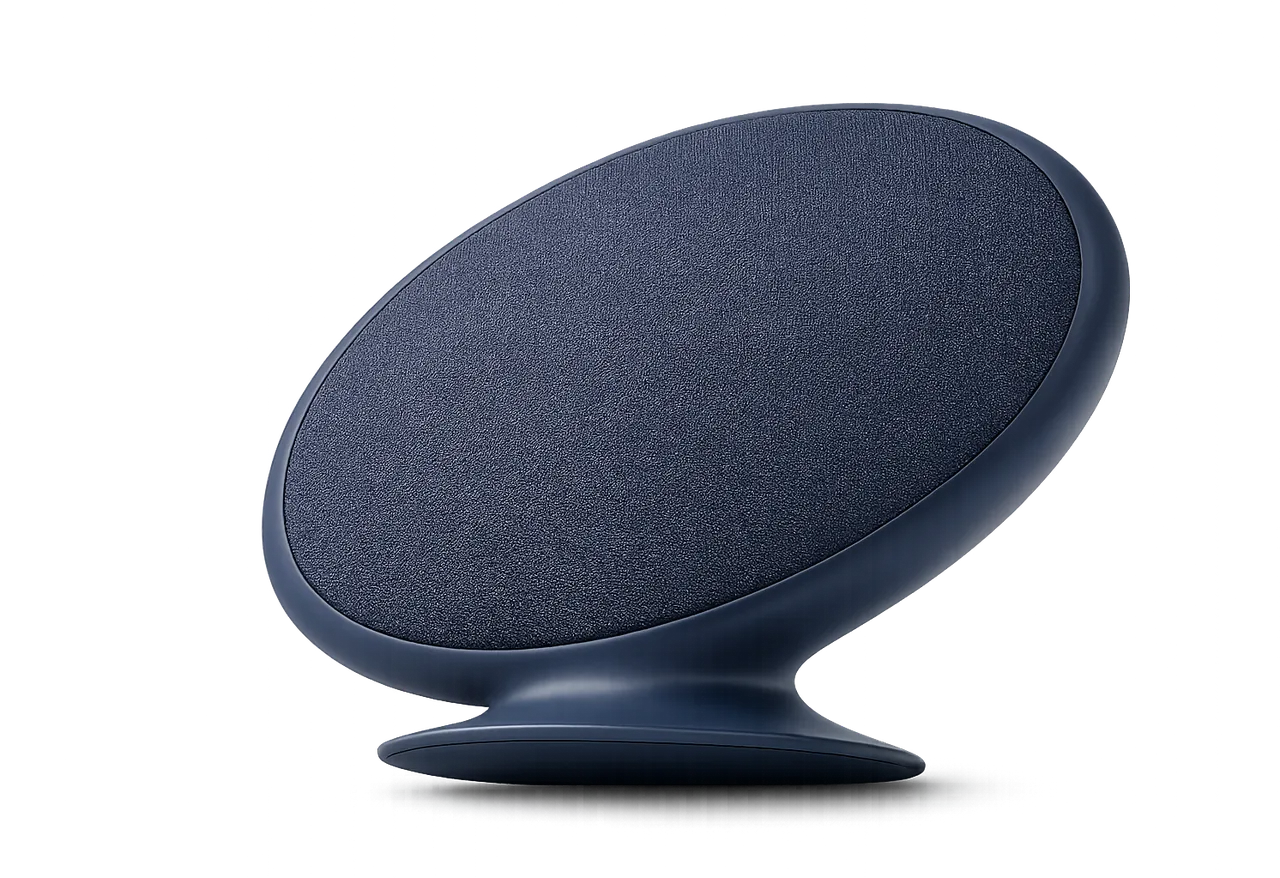
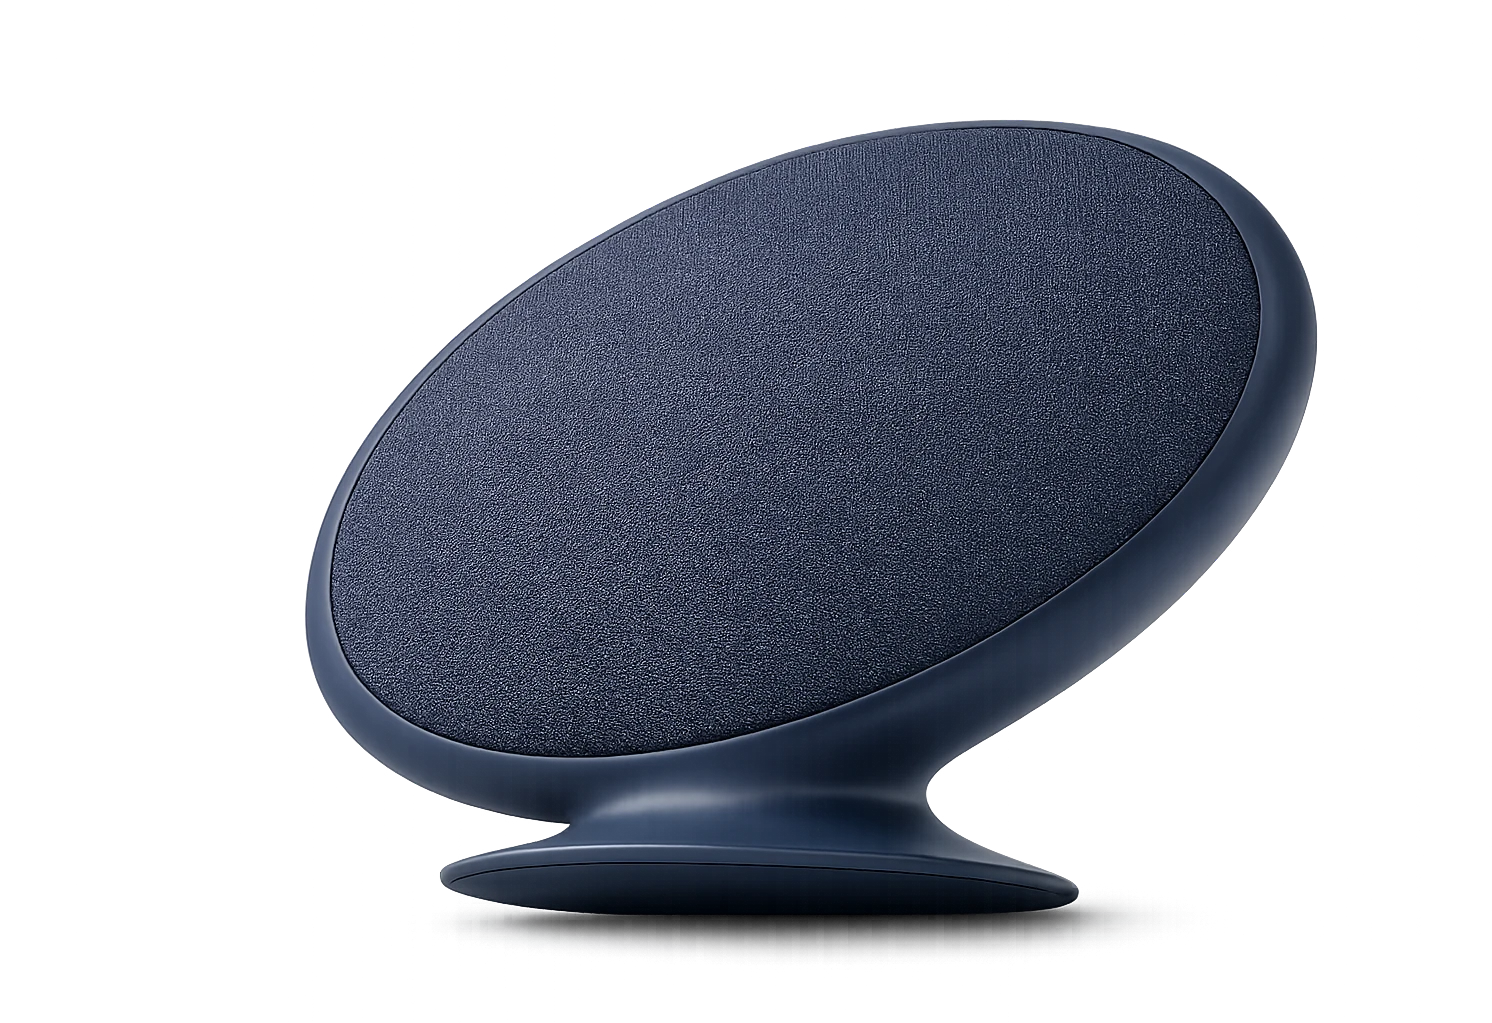
refactor: export hero at 1x and 2x instead of downscaling
The previous export shrank the master to 1280px purely to fit the brief's
300 KB hero budget, which cost resolution on Retina screens for a number
that only ever mattered on standard ones. Export both widths from the full
1492px master at quality 90 instead and let srcset pick: 900px/142 KB for
1x, 1492px/404 KB for 2x.

Move the source render to assets-src/ and ignore that directory rather than
the bare filename. Update the brief's hero references, including the
performance floor, which now scopes the 300 KB budget to the asset 1x
displays actually fetch.

Changed region(s): [[0.25, 0.2768, 0.5938, 0.7073], [0.4688, 0.3075, 0.5, 0.3383]]

diff --git a/fable-prompt.md b/fable-prompt.md
@@ -11,11 +11,11 @@ Nothing here is a real product. Do not write spec-sheet marketing copy about aud
 Read these first. They determine the whole architecture.
 
 - **No 3D. No Three.js, no WebGL, no React Three Fiber.** The product is presented entirely through pre-rendered transparent PNG/WebP images. Do not add a 3D library for any reason.
-- **Exactly one real render exists right now:** `/public/herospeaker.webp`, used on the landing page. It is a transparent-background studio shot of the speaker facing right with the pedestal sweeping left. It **must** keep its alpha channel — it sits on a navy field, so any format without transparency (JPEG) would render as a white box. If you find it with a `.jpg` extension, stop and say so rather than building around it.
+- **Exactly one real render exists right now**, exported at two widths from a single master: `/public/herospeaker.webp` (1492×1023, the 2x/Retina asset) and `/public/herospeaker@1x.webp` (900×617, the 1x asset). Serve them through a `srcset` so standard displays fetch the 1x file and Retina displays fetch the full-width one. Both are used on the landing page. The render is a transparent-background studio shot of the speaker facing right with the pedestal sweeping left. Both files **must** keep their alpha channel — it sits on a navy field, so any format without transparency (JPEG) would render as a white box. If you find it with a `.jpg` extension, stop and say so rather than building around it.
 - **All eighteen other finishes are placeholders for now.** They will be dropped in later at `/public/colorways/<collection>-<finish>.webp` (e.g. `flores-sunshine.webp`). Until then the site must look finished and intentional — see "The placeholder" below. Do not special-case the navy image: route it through the same component as everything else, so the others become real by adding files and changing no code.
 - Everything else visual is SVG or CSS. Do not reference external image URLs, and never leave a broken-image icon anywhere.
 - **Stack:** Vite + React + TypeScript. GSAP with ScrollTrigger for scroll choreography. Lenis for smooth scroll. Tailwind for layout. React Router for pages. Nothing else.
-- **Performance floor:** 60fps on any laptop. Animate only `transform` and `opacity`. Serve WebP, lazy-load below the fold, and keep the hero image under 300 KB.
+- **Performance floor:** 60fps on any laptop. Animate only `transform` and `opacity`. Serve WebP, lazy-load below the fold, and keep the hero image standard displays actually fetch under 300 KB — the 1x asset is 142 KB; the full-width Retina asset is 404 KB and is only ever requested by 2x screens. Do not downscale the master to chase a byte target; add a `srcset` step instead.
 - **Accessibility floor:** visible keyboard focus everywhere, `prefers-reduced-motion` honored (motion becomes instant state changes, never disappears), all interactive elements reachable by tab, alt text or aria-labels on every meaningful visual.
 
 ---
@@ -78,7 +78,7 @@ This is the most important thing on the site. Build it precisely.
 
 **Phase 4 — Invitation.** A scroll indicator appears on the navy field. Arrow bounces slowly and smoothly, long easing, nothing jittery. It fades out the moment the user begins scrolling.
 
-**Phase 5 — Scroll-driven hero.** Scrubbed to scroll position, reversible in both directions. Use `<ProductShot colorway="foundations-navy" src="/herospeaker.webp" />` — the one real render — positioned and driven purely by CSS transforms — translate, scale, rotate — with GSAP scrubbing them against scroll.
+**Phase 5 — Scroll-driven hero.** Scrubbed to scroll position, reversible in both directions. Use `<ProductShot colorway="foundations-navy" src="/herospeaker@1x.webp" srcSet="/herospeaker@1x.webp 900w, /herospeaker.webp 1492w" />` — the one real render — positioned and driven purely by CSS transforms — translate, scale, rotate — with GSAP scrubbing them against scroll.
 - The Luma-One enters oversized from the bottom-right, cropped by the viewport edge, then scales down and settles to sit over the type.
 - `New-Age` / `Noise` set in Fraunces italic, mint on navy, two lines, large. The letterforms resolve from a distorted state into clean type as scroll advances — start with heavy horizontal displacement or a clip-path reveal that reads as the letters assembling. The storyboard shows them mid-resolve; match that feel.
 - Speaker and type share the scroll timeline but move at different rates.
@@ -93,7 +93,7 @@ This is the most important thing on the site. Build it precisely.
 
 Build one component, `<ProductShot colorway={...} />`, used for every appearance of the product anywhere on the site — the landing page included. It resolves a source in this order: an explicit `src` prop, then `/colorways/<collection>-<finish>.webp`, then the drawn placeholder.
 
-Today only the landing page passes an explicit src (`/herospeaker.webp`, the Midnight Navy shot). All nineteen colorway slots fall through to placeholders, including `foundations-navy` on its own product page. That is expected. Those pages must still look deliberate.
+Today only the landing page passes an explicit src (the Midnight Navy shot, as the `herospeaker` 1x/2x `srcset` pair above). `<ProductShot>` therefore accepts an optional `srcSet` alongside `src`; when the remaining colorway renders arrive they should be exported at the same two widths and passed the same way. All nineteen colorway slots fall through to placeholders, including `foundations-navy` on its own product page. That is expected. Those pages must still look deliberate.
 
 The fallback is an inline SVG of the product's silhouette: a tilted ellipse on a flared pedestal foot, filled in that colorway's own hex, with a slightly darker inset ellipse for the grille and a soft highlight along the upper-left rim. Same aspect ratio and same position as a real render, so nothing reflows when images arrive. Add a small Geist Mono caption beneath in `--slate` reading the finish name.
 
